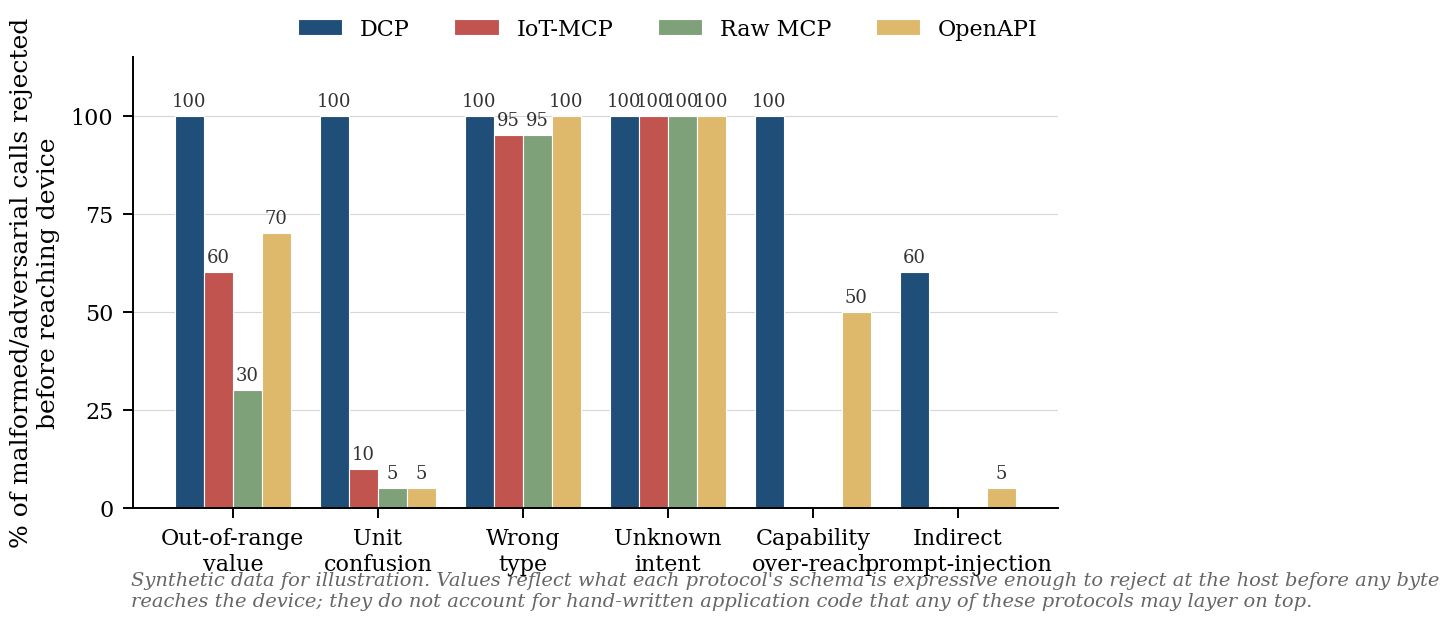
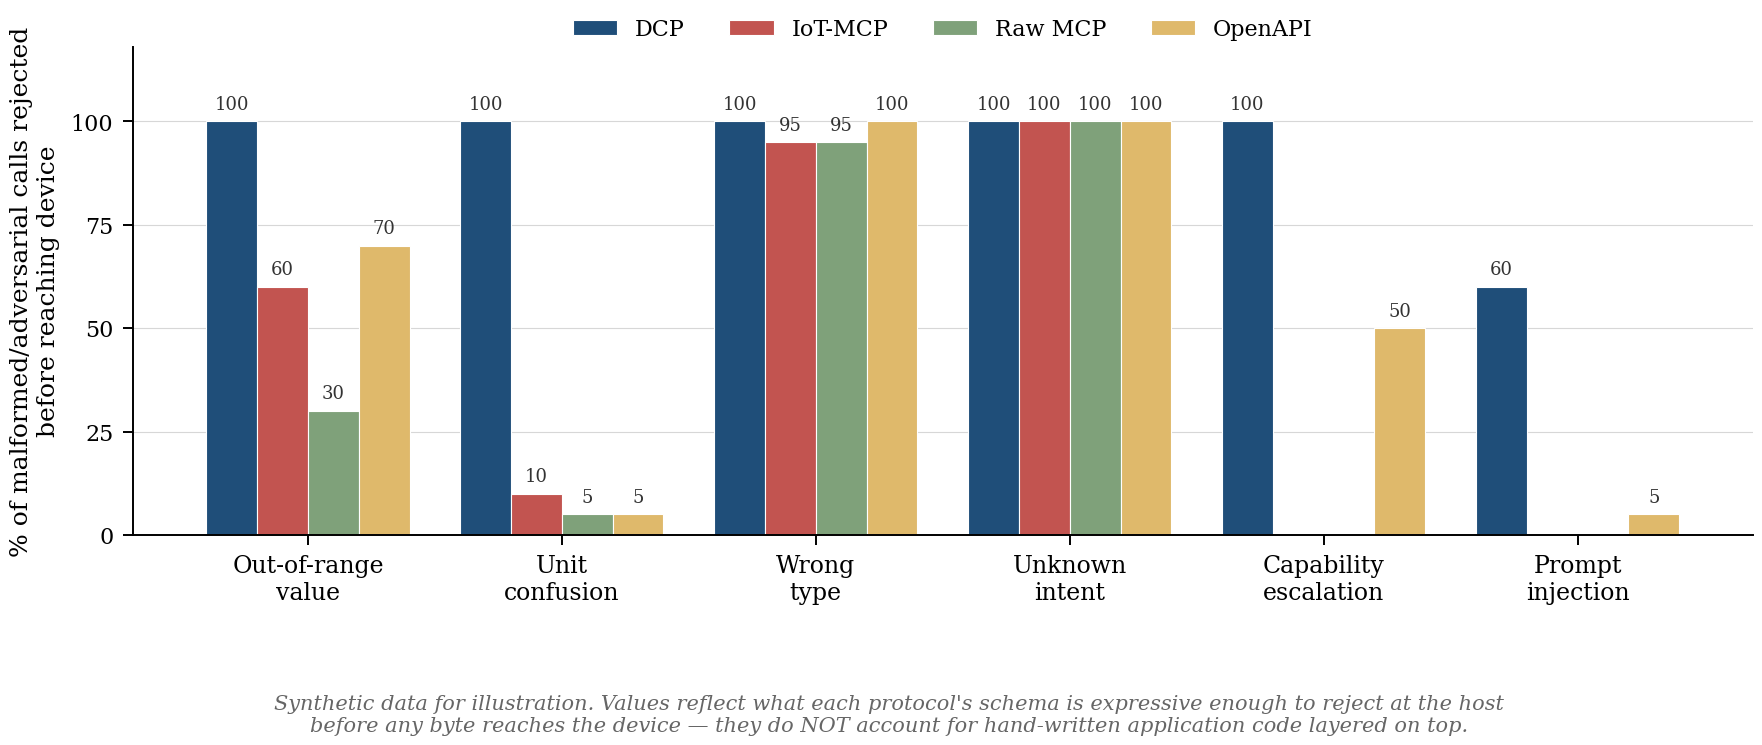
fig: clean up wire_format header labels + hallucination bottom margin + legend

diff --git a/docs/paper/figures/make_figures.py b/docs/paper/figures/make_figures.py
@@ -148,43 +148,57 @@ def fig_architecture():
 # Figure 2 — Wire format and comparison to MCP JSON-RPC.
 
 def fig_wire_format():
-    fig = plt.figure(figsize=(6.5, 3.2))
-    gs = fig.add_gridspec(2, 1, height_ratios=[1.2, 1], hspace=0.55)
+    fig = plt.figure(figsize=(7.5, 3.6))
+    gs = fig.add_gridspec(2, 1, height_ratios=[1.3, 1], hspace=0.65)
 
     # Top: byte-level layout of a DCP frame.
+    # Three big sections (header / payload / HMAC). The header breakdown
+    # (ver/kind/seq/iid) is too narrow to label per-field at honest scale,
+    # so we only call out the three macro regions and put the per-field
+    # detail in a small inset box on the right.
     ax1 = fig.add_subplot(gs[0])
-    ax1.set_xlim(0, 35); ax1.set_ylim(-0.4, 1.6); ax1.axis("off")
+    ax1.set_xlim(-0.5, 35.5); ax1.set_ylim(-1.4, 1.9); ax1.axis("off")
 
-    segments = [
-        (0,  1, "ver",   C["header"]),
-        (1,  1, "kind",  C["header"]),
-        (2,  2, "seq",   C["header"]),
-        (4,  2, "iid",   C["header"]),
-        (6, 13, "CBOR payload (variable)", C["cbor"]),
-        (19, 16, "optional HMAC-SHA256[:16]", C["hmac"]),
-    ]
-    for x, w, label, color in segments:
-        ax1.add_patch(mpatches.Rectangle((x, 0), w, 1,
-                                           facecolor=color,
-                                           edgecolor="white",
-                                           linewidth=1.0,
-                                           alpha=0.9))
-        ax1.text(x + w / 2, 0.5, label,
-                 ha="center", va="center",
-                 fontsize=8, color="white", fontweight="bold")
-        if w == 1 or w == 2:
-            ax1.text(x + w / 2, -0.15, f"{w} B",
-                     ha="center", va="top", fontsize=7, color="#444")
+    # Per-field sub-shading inside the header block, but no per-field labels.
+    sub_colors = [C["header"], "#2d6aa3", C["header"], "#2d6aa3"]
+    sub_widths = [1, 1, 2, 2]
+    sx = 0
+    for w, c in zip(sub_widths, sub_colors):
+        ax1.add_patch(mpatches.Rectangle((sx, 0), w, 1,
+                                           facecolor=c, edgecolor="white",
+                                           linewidth=1.0, alpha=0.95))
+        sx += w
 
-    ax1.annotate("6-byte fixed header", xy=(3, 1.0), xytext=(3, 1.45),
-                 fontsize=8, color="#333", ha="center",
-                 arrowprops=dict(arrowstyle="-", linewidth=0.5, color="#777"))
-    ax1.annotate("CBOR map (RFC 8949)", xy=(12.5, 1.0), xytext=(12.5, 1.45),
-                 fontsize=8, color="#333", ha="center",
-                 arrowprops=dict(arrowstyle="-", linewidth=0.5, color="#777"))
-    ax1.annotate("opt. integrity", xy=(27, 1.0), xytext=(27, 1.45),
-                 fontsize=8, color="#333", ha="center",
-                 arrowprops=dict(arrowstyle="-", linewidth=0.5, color="#777"))
+    # The two big regions.
+    ax1.add_patch(mpatches.Rectangle((6, 0), 13, 1,
+                                       facecolor=C["cbor"], edgecolor="white",
+                                       linewidth=1.0, alpha=0.92))
+    ax1.text(12.5, 0.5, "CBOR payload (variable)",
+             ha="center", va="center", fontsize=9, color="white",
+             fontweight="bold")
+    ax1.add_patch(mpatches.Rectangle((19, 0), 16, 1,
+                                       facecolor=C["hmac"], edgecolor="white",
+                                       linewidth=1.0, alpha=0.92))
+    ax1.text(27, 0.5, "optional HMAC-SHA256[:16]",
+             ha="center", va="center", fontsize=9, color="white",
+             fontweight="bold")
+
+    # Three top bracket labels with leader lines, comfortably spaced.
+    ax1.annotate("6-byte fixed header", xy=(3, 1.0), xytext=(3, 1.65),
+                 fontsize=8.5, color="#222", ha="center",
+                 arrowprops=dict(arrowstyle="-", linewidth=0.5, color="#888"))
+    ax1.annotate("CBOR map (RFC 8949)", xy=(12.5, 1.0), xytext=(12.5, 1.65),
+                 fontsize=8.5, color="#222", ha="center",
+                 arrowprops=dict(arrowstyle="-", linewidth=0.5, color="#888"))
+    ax1.annotate("optional 16-byte tag", xy=(27, 1.0), xytext=(27, 1.65),
+                 fontsize=8.5, color="#222", ha="center",
+                 arrowprops=dict(arrowstyle="-", linewidth=0.5, color="#888"))
+
+    # Below the header: spell out the field breakdown horizontally as text.
+    ax1.text(3, -0.55,
+             "ver(1) + kind(1) + seq(2) + intent_id(2) = 6 bytes",
+             ha="center", va="top", fontsize=7.5, color="#444", style="italic")
+
     ax1.set_title("DCP frame layout", loc="left", pad=4, fontsize=10)
 
     # Bottom: size comparison bars.
@@ -249,15 +263,15 @@ def fig_footprint():
 # Figure 4 — Hallucination rejection rate (the killer experiment).
 
 def fig_hallucination():
-    fig, ax = plt.subplots(figsize=(6.8, 3.4))
+    fig, ax = plt.subplots(figsize=(9.0, 4.0))
 
     attacks = [
         "Out-of-range\nvalue",
         "Unit\nconfusion",
         "Wrong\ntype",
         "Unknown\nintent",
-        "Capability\nover-reach",
-        "Indirect\nprompt-injection",
+        "Capability\nescalation",
+        "Prompt\ninjection",
     ]
     series = {
         "DCP":     [100, 100, 100, 100, 100, 60],
@@ -265,7 +279,8 @@ def fig_hallucination():
         "Raw MCP": [30,    5,  95, 100,   0,  0],
         "OpenAPI": [70,    5, 100, 100,  50,  5],
     }
-    colors = {"DCP": C["dcp"], "IoT-MCP": C["iotmcp"], "Raw MCP": C["rawmcp"], "OpenAPI": C["openapi"]}
+    colors = {"DCP": C["dcp"], "IoT-MCP": C["iotmcp"],
+              "Raw MCP": C["rawmcp"], "OpenAPI": C["openapi"]}
 
     x = np.arange(len(attacks))
     width = 0.2
@@ -275,25 +290,28 @@ def fig_hallucination():
                       label=name, edgecolor="white", linewidth=0.4)
         for bar, v in zip(bars, vals):
             if v > 0:
-                ax.text(bar.get_x() + bar.get_width() / 2, v + 1.5,
+                ax.text(bar.get_x() + bar.get_width() / 2, v + 2,
                         f"{v}",
                         ha="center", va="bottom", fontsize=6.5, color="#333")
 
     ax.set_xticks(x)
-    ax.set_xticklabels(attacks, fontsize=8)
+    ax.set_xticklabels(attacks, fontsize=8.5)
     ax.set_ylabel("% of malformed/adversarial calls rejected\nbefore reaching device")
-    ax.set_ylim(0, 115)
+    ax.set_ylim(0, 118)
     ax.set_yticks([0, 25, 50, 75, 100])
-    ax.legend(loc="upper right", frameon=False, ncol=4, bbox_to_anchor=(1.0, 1.13))
+    ax.legend(loc="upper center", frameon=False, ncol=4, bbox_to_anchor=(0.5, 1.10))
     ax.grid(axis="y", linewidth=0.4, alpha=0.5)
     ax.set_axisbelow(True)
-    ax.text(-0.7, -25,
-            "Synthetic data for illustration. Values reflect what each protocol's "
-            "schema is expressive enough to reject at the host before any byte\n"
-            "reaches the device; they do not account for hand-written application code "
-            "that any of these protocols may layer on top.",
-            fontsize=7, color="#666", style="italic")
-    fig.tight_layout()
+
+    # Give the figure enough bottom margin for the footnote sitting below the
+    # x-axis category labels.
+    fig.subplots_adjust(bottom=0.27, top=0.88, left=0.08, right=0.98)
+    fig.text(0.5, 0.02,
+             "Synthetic data for illustration. Values reflect what each protocol's "
+             "schema is expressive enough to reject at the host\n"
+             "before any byte reaches the device — they do NOT account for "
+             "hand-written application code layered on top.",
+             ha="center", va="bottom", fontsize=7.5, color="#666", style="italic")
     save(fig, "hallucination")
 
 